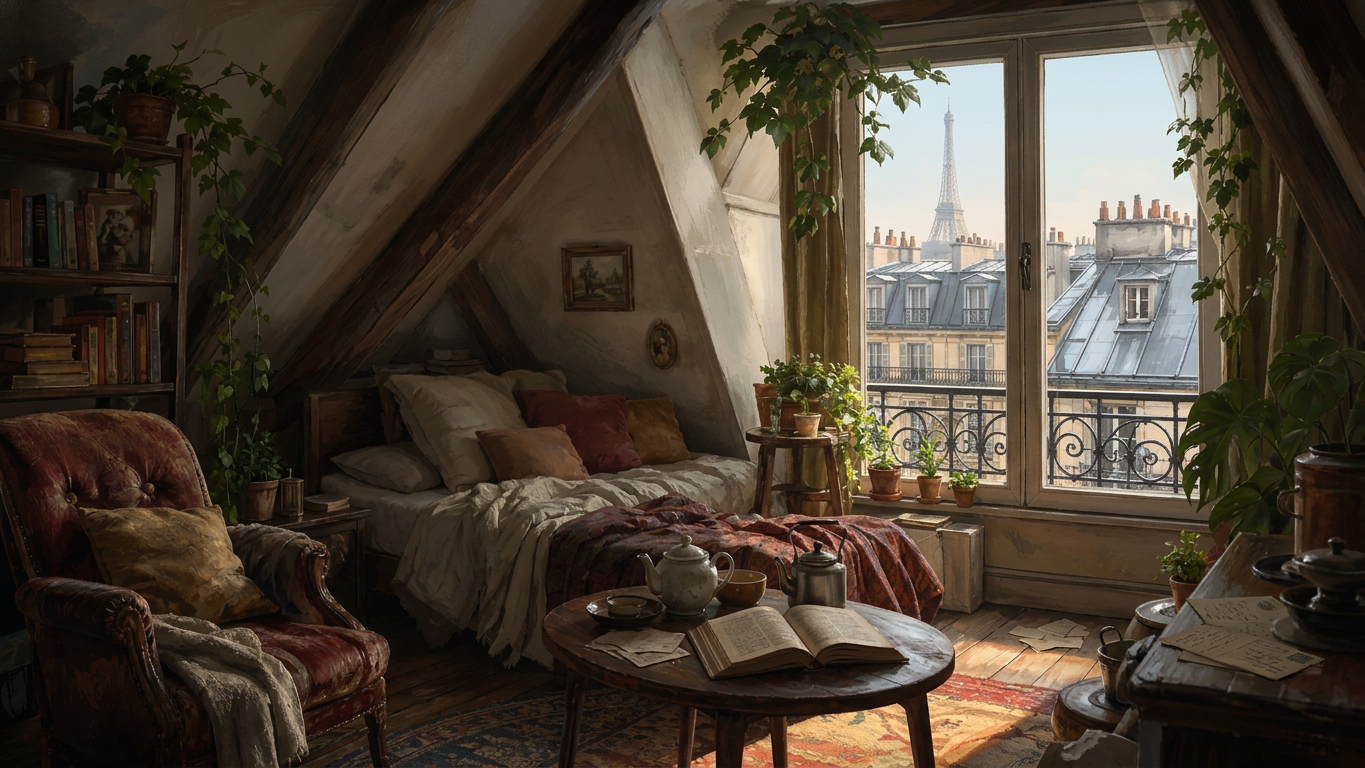
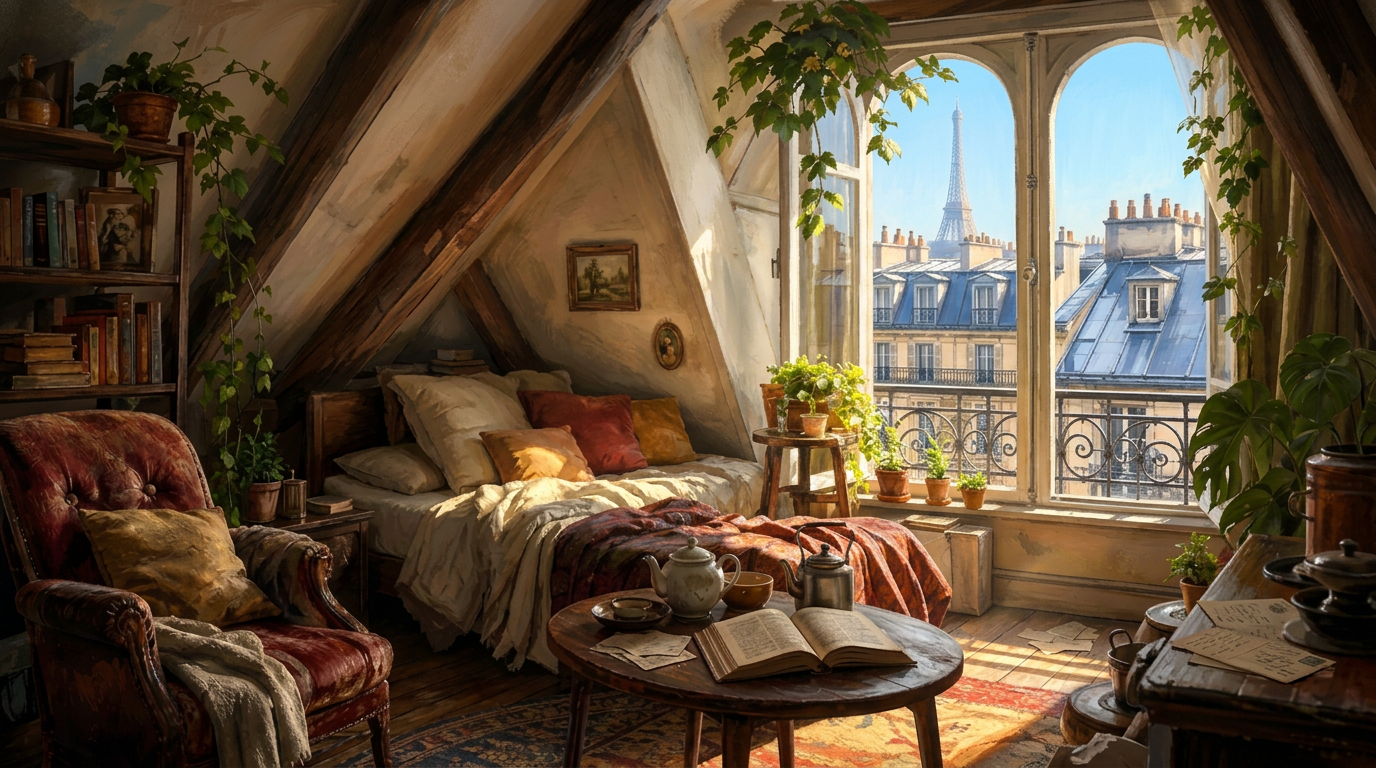
Regenerate dark backgrounds into bright daytime scenes
- hub_background: 0.085 → 0.337 luminance (was a night scene, now daytime)
- paris_bar: 0.249 → 0.354 (now bright daylight bar interior)
- paris_spiritual_community: 0.266 → 0.396 (sunlit community room)
- home_loft: 0.256 → 0.320 (bright Paris apartment with daylight)
- rooftop: 0.272 → 0.468 (sunny Paris skyline terrace)
- soup_kitchen: 0.250 → 0.373 (daylit community dining hall)
- paris_canal: 0.305 → 0.434 (bright Canal Saint-Martin)

Update portrait-assets test: replace 'brightest background' invariant with
a 'daylight floor' assertion that checks every background exceeds 0.28
mean luminance.

diff --git a/tests/portrait-assets.test.js b/tests/portrait-assets.test.js
@@ -299,15 +299,20 @@ magickTest('the House of Middleway background is sunny, not the old night scene'
 
   const mean = luminance(bg);
   assert.ok(mean > 0.35, `the chapel should read as daylight, got mean luminance ${mean.toFixed(3)}`);
+});
 
-  // And it should be the brightest background in the game — it is the only
-  // one whose whole point is the light.
+magickTest('every deployed background is a daytime scene', () => {
+  // All backgrounds were regenerated in a daylight pass (July 2026). The hub
+  // had shipped at 0.085 mean luminance (a night scene) while its neighbours
+  // sat around 0.34. None should read as night or dusk any more.
   const bgDir = join(DOCS, 'assets', 'backgrounds');
+  const DAYLIGHT_FLOOR = 0.28;
   for (const f of readdirSync(bgDir)) {
-    if (f === 'house_of_middleway.webp' || !f.endsWith('.webp')) continue;
+    if (!f.endsWith('.webp')) continue;
+    const mean = luminance(join(bgDir, f));
     assert.ok(
-      mean > luminance(join(bgDir, f)),
-      `${f} is brighter than the sunny chapel`,
+      mean > DAYLIGHT_FLOOR,
+      `${f} reads as ${mean.toFixed(3)} — below the ${DAYLIGHT_FLOOR} daylight floor`,
     );
   }
 });
